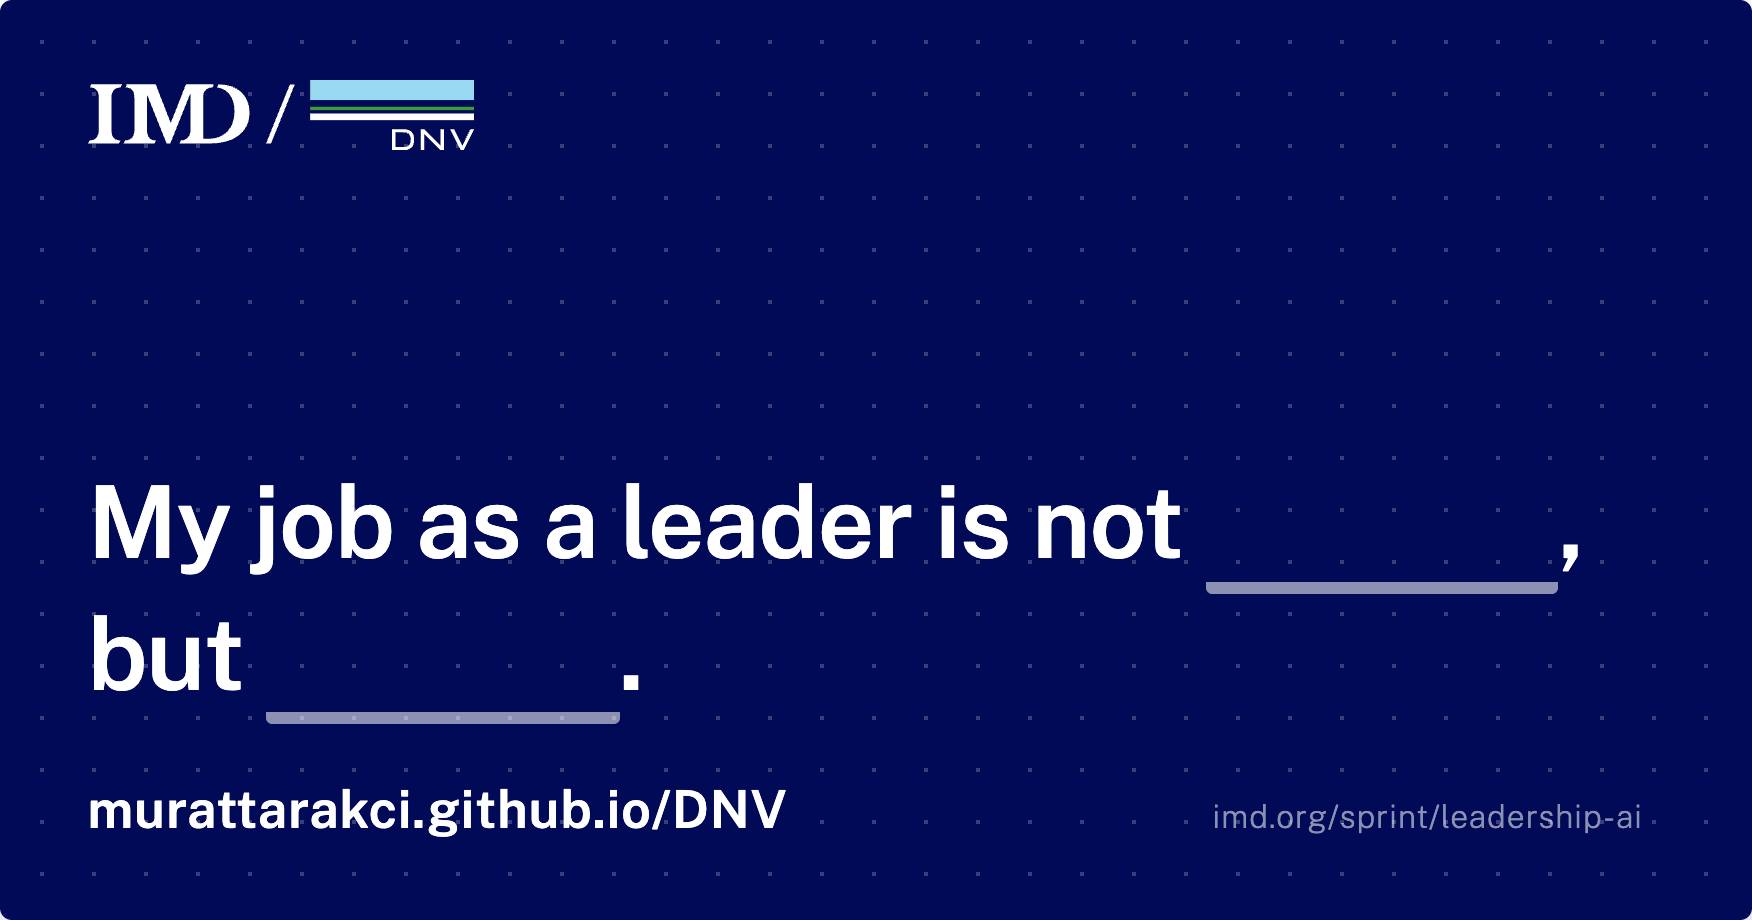
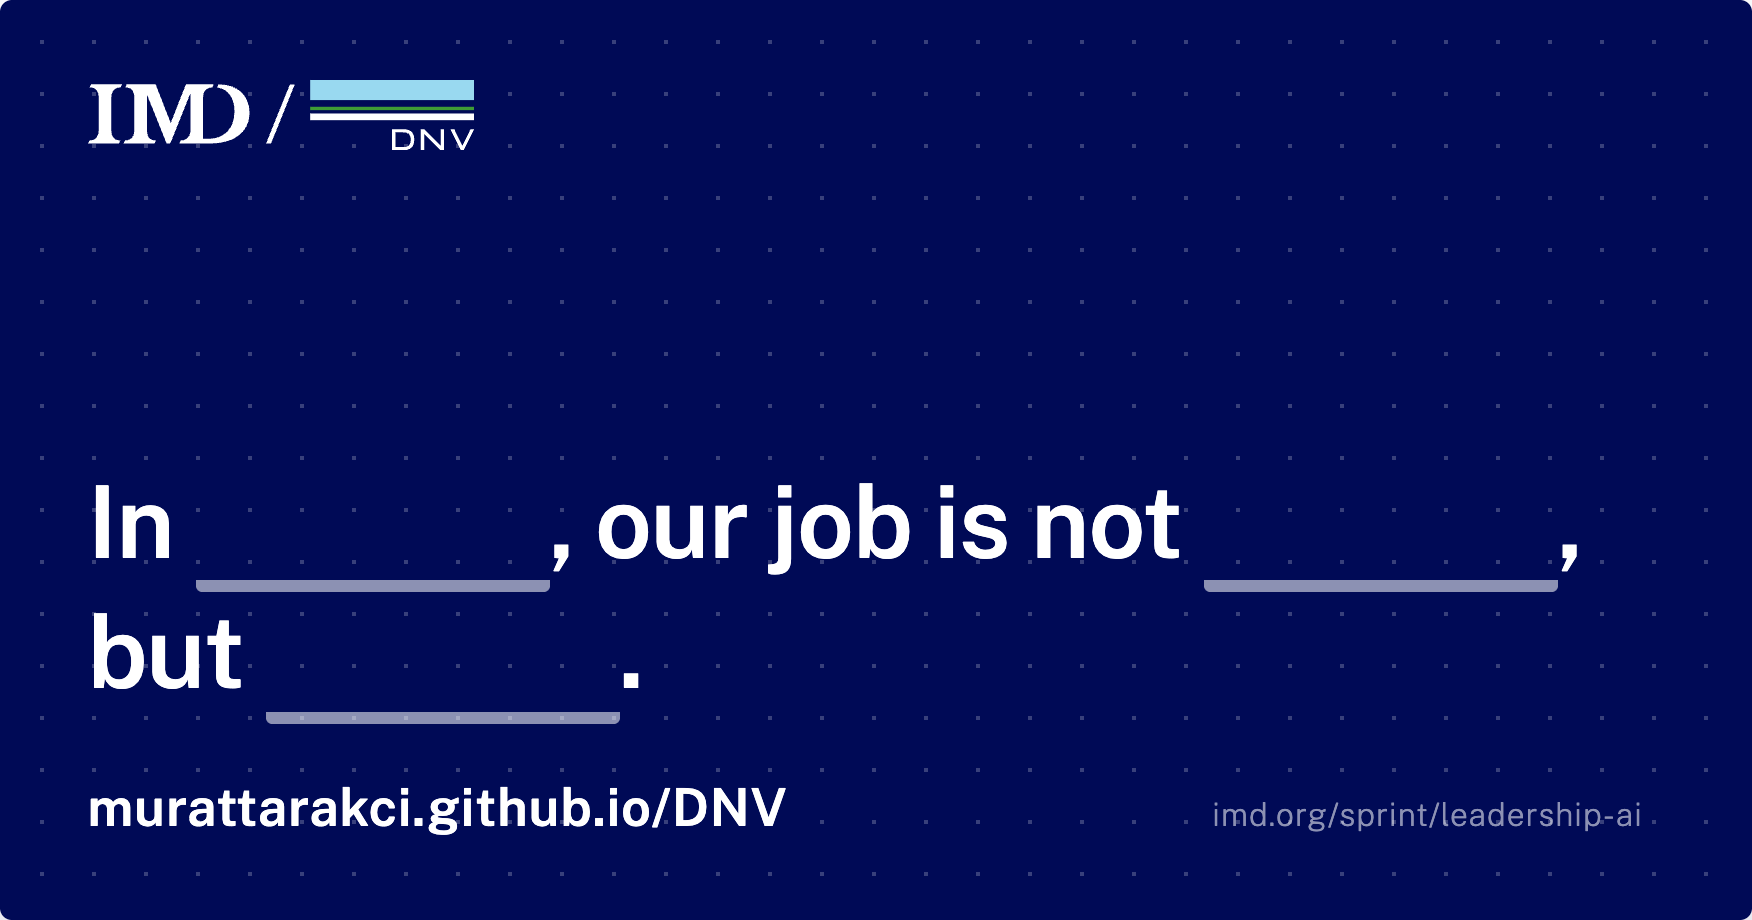
Card asks for a process to redesign, not a job to redefine
The sentence becomes "In [process], our job is not [X], but [Y]." That adds
a third editable field, .proc, styled like the two blanks and recorded
alongside them as `process`.

Two places were reading the sentence by span index and had to stop. The
email signature now walks #statement > span and colours whichever spans are
fields, so it follows the sentence instead of assuming its shape. The
facilitator view's stmtHTML rebuilds the new wording, and the process joins
the profanity check and the "completed with name" filter.

blank1 and blank2 still hold the old way and the new way, so the contrast
ranking is untouched.

assets/og-card.png regenerated.

diff --git a/index.html b/index.html
@@ -107,7 +107,7 @@
     background: rgba(255, 255, 255, 0.08);
   }
 
-  .blank {
+  .blank, .proc {
     color: #9FE1FF;
     padding: 0 0.1em;
     text-decoration: underline;
@@ -116,20 +116,20 @@
     text-underline-offset: 0.18em;
   }
   /* while empty, show the classic blank line to type on */
-  .blank:empty {
+  .blank:empty, .proc:empty {
     display: inline-block;
     min-width: 3.5em;
     text-align: center;
     text-decoration: none;
     border-bottom: 0.12em solid rgba(255, 255, 255, 0.55);
   }
-  .blank:empty::before {
+  .blank:empty::before, .proc:empty::before {
     content: attr(data-ph);
     color: rgba(255, 255, 255, 0.32);
     font-weight: 300;
   }
   /* hide placeholder hints in the exported image */
-  .exporting .blank:empty::before { content: ""; }
+  .exporting .blank:empty::before, .exporting .proc:empty::before { content: ""; }
   .exporting [contenteditable]:focus { background: transparent; }
 
   .card-footer {
@@ -266,7 +266,7 @@
 
 <div class="intro">
   <h1>Rewiring Leadership for Adding Value in the Age of AI</h1>
-  <p>Fill in the blanks. <strong>Everything on the card is editable</strong>, just tap the text.</p>
+  <p>Pick a process you own, then fill in the blanks. <strong>Everything on the card is editable</strong>, just tap the text.</p>
 </div>
 
 <div class="card-wrap">
@@ -293,7 +293,7 @@
     </div>
 
     <div>
-      <p class="statement" id="statement"><span contenteditable="true" spellcheck="true">My job as a leader is not</span> <span class="blank" contenteditable="true" spellcheck="true" data-ph="having answers"></span><span contenteditable="true" spellcheck="true">, but</span> <span class="blank" contenteditable="true" spellcheck="true" data-ph="asking questions"></span><span contenteditable="true" spellcheck="true">.</span></p>
+      <p class="statement" id="statement"><span contenteditable="true" spellcheck="true">In</span> <span class="proc" contenteditable="true" spellcheck="true" data-ph="hiring"></span><span contenteditable="true" spellcheck="true">, our job is not</span> <span class="blank" contenteditable="true" spellcheck="true" data-ph="sorting CVs"></span><span contenteditable="true" spellcheck="true">, but</span> <span class="blank" contenteditable="true" spellcheck="true" data-ph="deciding what good looks like"></span><span contenteditable="true" spellcheck="true">.</span></p>
       <div class="card-footer">
         <p class="byline">— <span class="who" contenteditable="true" spellcheck="true" data-ph="your name"></span></p>
         <a class="card-program" href="https://www.imd.org/sprint/leadership-ai/" target="_blank" rel="noopener">imd.org/sprint/leadership-ai</a>
@@ -389,7 +389,8 @@
     const parts = [];
     document.querySelectorAll("#statement > span").forEach((s) => {
       const t = s.textContent.trim();
-      parts.push(s.classList.contains("blank") ? (t || "____") : t);
+      const isField = s.classList.contains("blank") || s.classList.contains("proc");
+      parts.push(isField ? (t || "____") : t);
     });
     // join with spaces, then tidy space before punctuation
     return parts.join(" ").replace(/\s+([,.])/g, "$1");
@@ -404,6 +405,7 @@
     const blanks = document.querySelectorAll("#statement .blank");
     return {
       statement: statementText(),
+      process: document.querySelector("#statement .proc").textContent.trim(),
       blank1: blanks[0].textContent.trim(),
       blank2: blanks[1].textContent.trim(),
       name: document.querySelector(".byline .who").textContent.trim()
@@ -497,16 +499,21 @@
 
   function signatureHTML() {
     const d = window.__cardData();
-    const b1 = d.blank1 ? '<span style="color:#005DC4;">' + escHtml(d.blank1) + "</span>" : "____";
-    const b2 = d.blank2 ? '<span style="color:#005DC4;">' + escHtml(d.blank2) + "</span>" : "____";
-    const stmt = document.querySelectorAll("#statement > span");
-    const p1 = escHtml(stmt[0].textContent.trim());
-    const p2 = escHtml(stmt[2].textContent.trim().replace(/^,\s*/, ""));
+    // walk the spans so the signature follows whatever the sentence says
+    const parts = [];
+    document.querySelectorAll("#statement > span").forEach((el) => {
+      const t = el.textContent.trim();
+      const isField = el.classList.contains("blank") || el.classList.contains("proc");
+      parts.push(isField
+        ? (t ? '<span style="color:#005DC4;">' + escHtml(t) + "</span>" : "____")
+        : escHtml(t));
+    });
+    const sentence = parts.join(" ").replace(/\s+([,.])/g, "$1");
     return (
       '<table cellpadding="0" cellspacing="0" border="0" style="font-family:Arial,Helvetica,sans-serif;">' +
       '<tr><td style="border-left:3px solid #005DC4;padding:4px 0 4px 14px;">' +
       '<div style="font-size:15px;line-height:1.45;color:#000A56;font-weight:bold;">&ldquo;' +
-      p1 + " " + b1 + ", " + p2 + " " + b2 + '.&rdquo;</div>' +
+      sentence + '&rdquo;</div>' +
       (d.name ? '<div style="font-size:13px;color:#000A56;padding-top:5px;">' + escHtml(d.name) + "</div>" : "") +
       '<div style="font-size:12px;padding-top:3px;"><a href="' + PROGRAM_URL +
       '" style="color:#005DC4;text-decoration:none;">IMD / Leading in the Age of AI Sprint</a></div>' +
@@ -557,7 +564,7 @@ if (window.FIREBASE_CONFIG) {
     async function submitCard() {
       try {
         const data = window.__cardData();
-        if (!data.blank1 && !data.blank2 && !data.name) return; // untouched card
+        if (!data.process && !data.blank1 && !data.blank2 && !data.name) return; // untouched card
         await setDoc(doc(db, window.CARDS_COLLECTION, cardId), { ...data, ts: serverTimestamp() }, { merge: true });
       } catch (e) { console.warn("card submit failed", e); }
     }

diff --git a/facilitator.html b/facilitator.html
@@ -249,7 +249,7 @@ async function scoreAll() {
 /* ---------- profanity check: flagged cards sink to the bottom ---------- */
 const PROFANITY = /\b(fuck\w*|shit\w*|bitch\w*|cunt\w*|asshole\w*|arsehole\w*|bastard\w*|dickhead\w*|wanker\w*|slut\w*|whore\w*|nigg\w+|fag\w*|retard\w*|piss\w*|bollocks|bullshit|motherfuck\w*|cock\w*|twat\w*)\b/i;
 function isFlagged(c) {
-  return PROFANITY.test(c.blank1 + " " + c.blank2 + " " + c.name);
+  return PROFANITY.test(c.process + " " + c.blank1 + " " + c.blank2 + " " + c.name);
 }
 
 /* ---------- rendering ---------- */
@@ -258,9 +258,8 @@ function esc(s) {
 }
 
 function stmtHTML(c) {
-  const b1 = c.blank1 ? '<span class="fill">' + esc(c.blank1) + "</span>" : "____";
-  const b2 = c.blank2 ? '<span class="fill">' + esc(c.blank2) + "</span>" : "____";
-  return "My job as a leader is not " + b1 + ", but " + b2 + ".";
+  const f = (t) => (t ? '<span class="fill">' + esc(t) + "</span>" : "____");
+  return "In " + f(c.process) + ", our job is not " + f(c.blank1) + ", but " + f(c.blank2) + ".";
 }
 
 function render() {
@@ -268,7 +267,7 @@ function render() {
   startOfDay.setHours(0, 0, 0, 0);
   const shown = cards.filter((c) => {
     if (todayOnly && (!c.ts || c.ts < startOfDay)) return false;
-    if (namedOnly && !(c.name && c.blank1 && c.blank2)) return false;
+    if (namedOnly && !(c.name && c.process && c.blank1 && c.blank2)) return false;
     return true;
   });
   // default order: biggest contrast first (flagged always last, newest first until scored)
@@ -376,6 +375,7 @@ async function start() {
       const v = d.data();
       const c = {
         id: d.id,
+        process: (v.process || "").trim(),
         blank1: (v.blank1 || "").trim(),
         blank2: (v.blank2 || "").trim(),
         name: (v.name || "").trim(),
